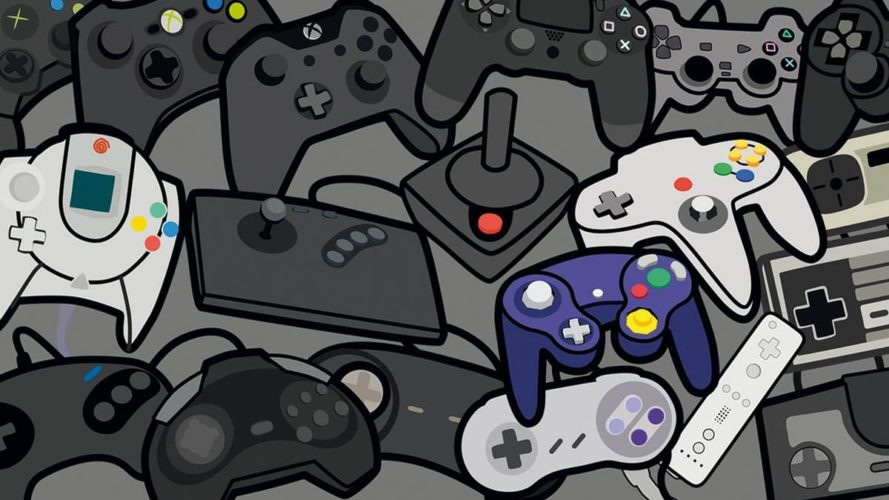
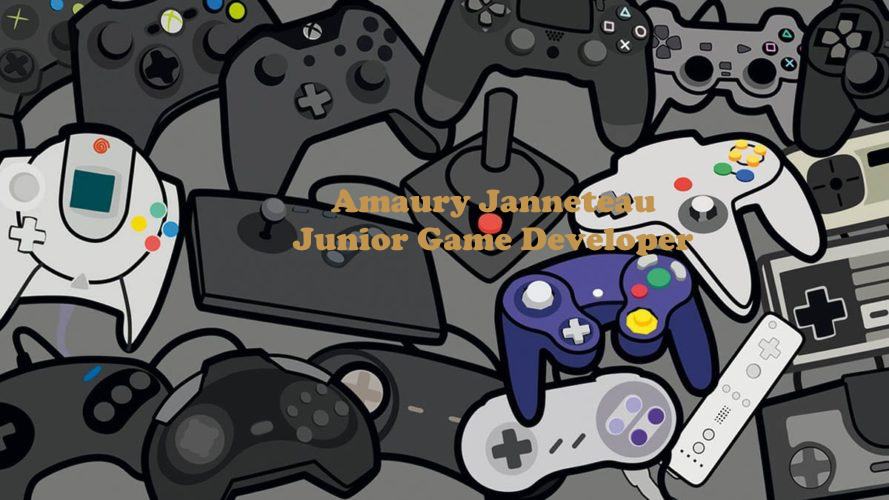
name on the top pic

Changed region(s): [[0.3341, 0.36, 0.7897, 0.51]]

diff --git a/index.html b/index.html
@@ -13,8 +13,8 @@
             <div class="parallax">
                 <img src="Assets/jeuxvideos.jpg"/>
                 <div id="title">
-                    <h1 class="center-align white-text">Amaury Janneteau</h1>
-                    <h2 class="center-align white-text">Student Game Developer Nantes</h2> 
+                    <h1 class="center-align valign-wrapper white-text">Amaury Janneteau</h1>
+                    <h2 class="center-align valign-wrapper white-text">Student Game Developer Nantes</h2> 
                 </div>
             </div>
         </div>
